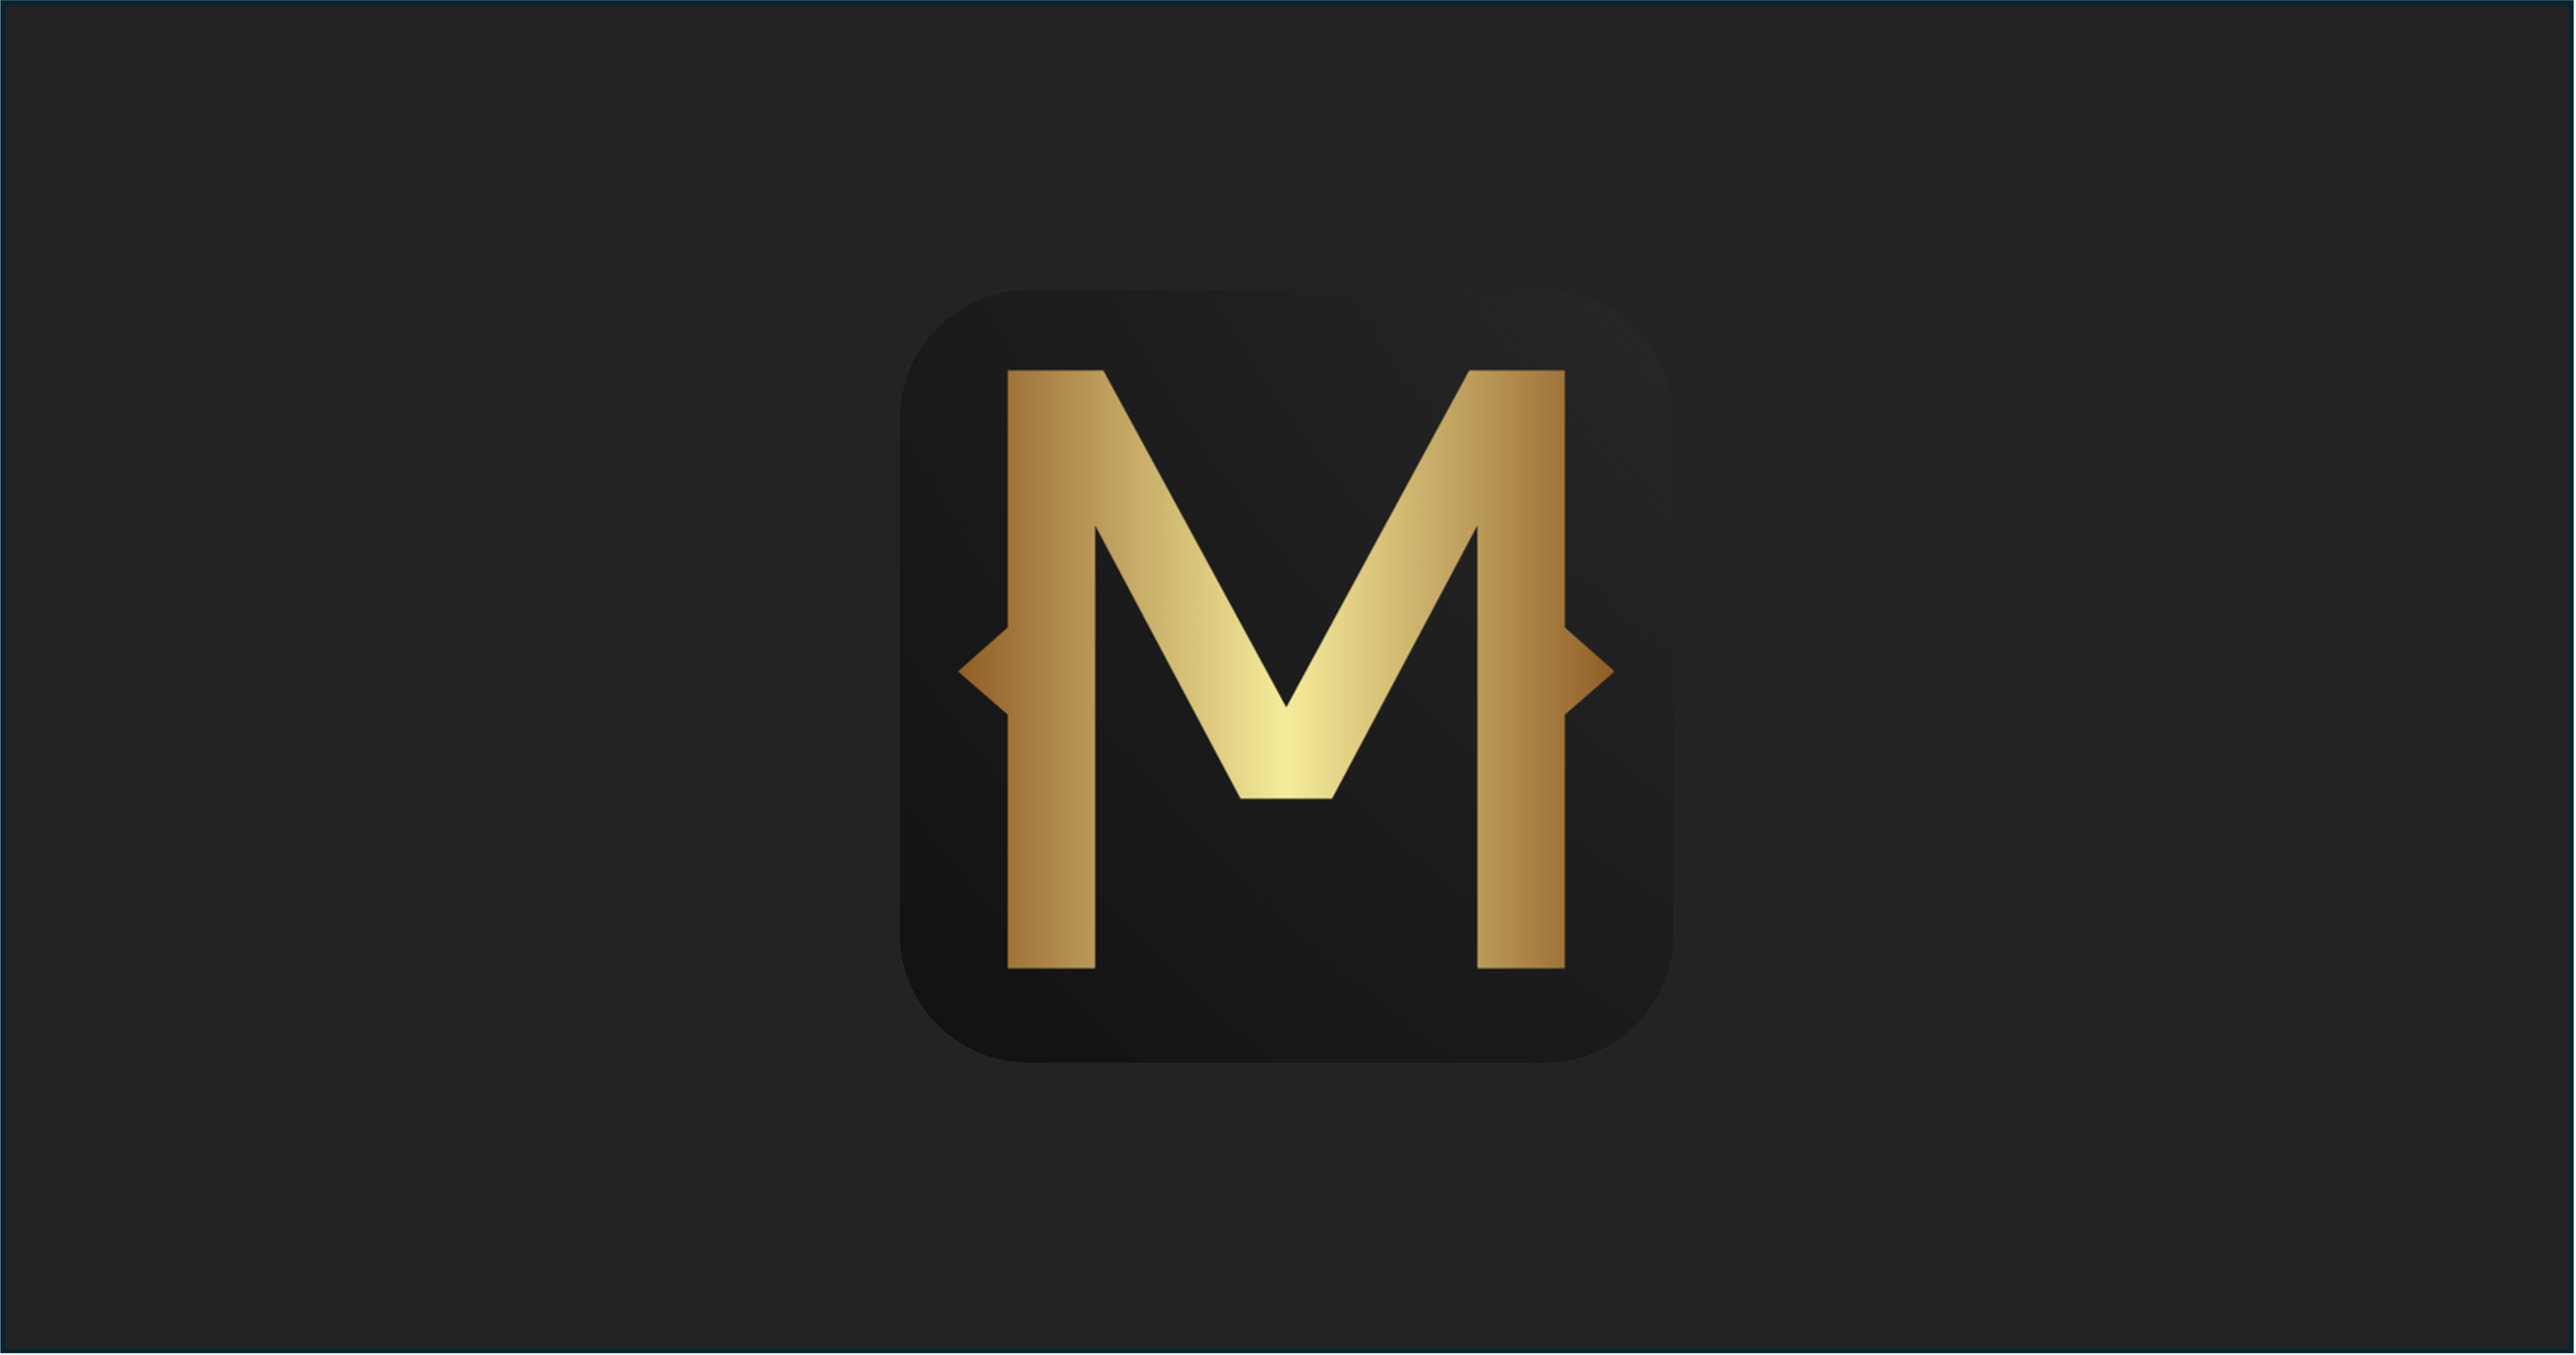
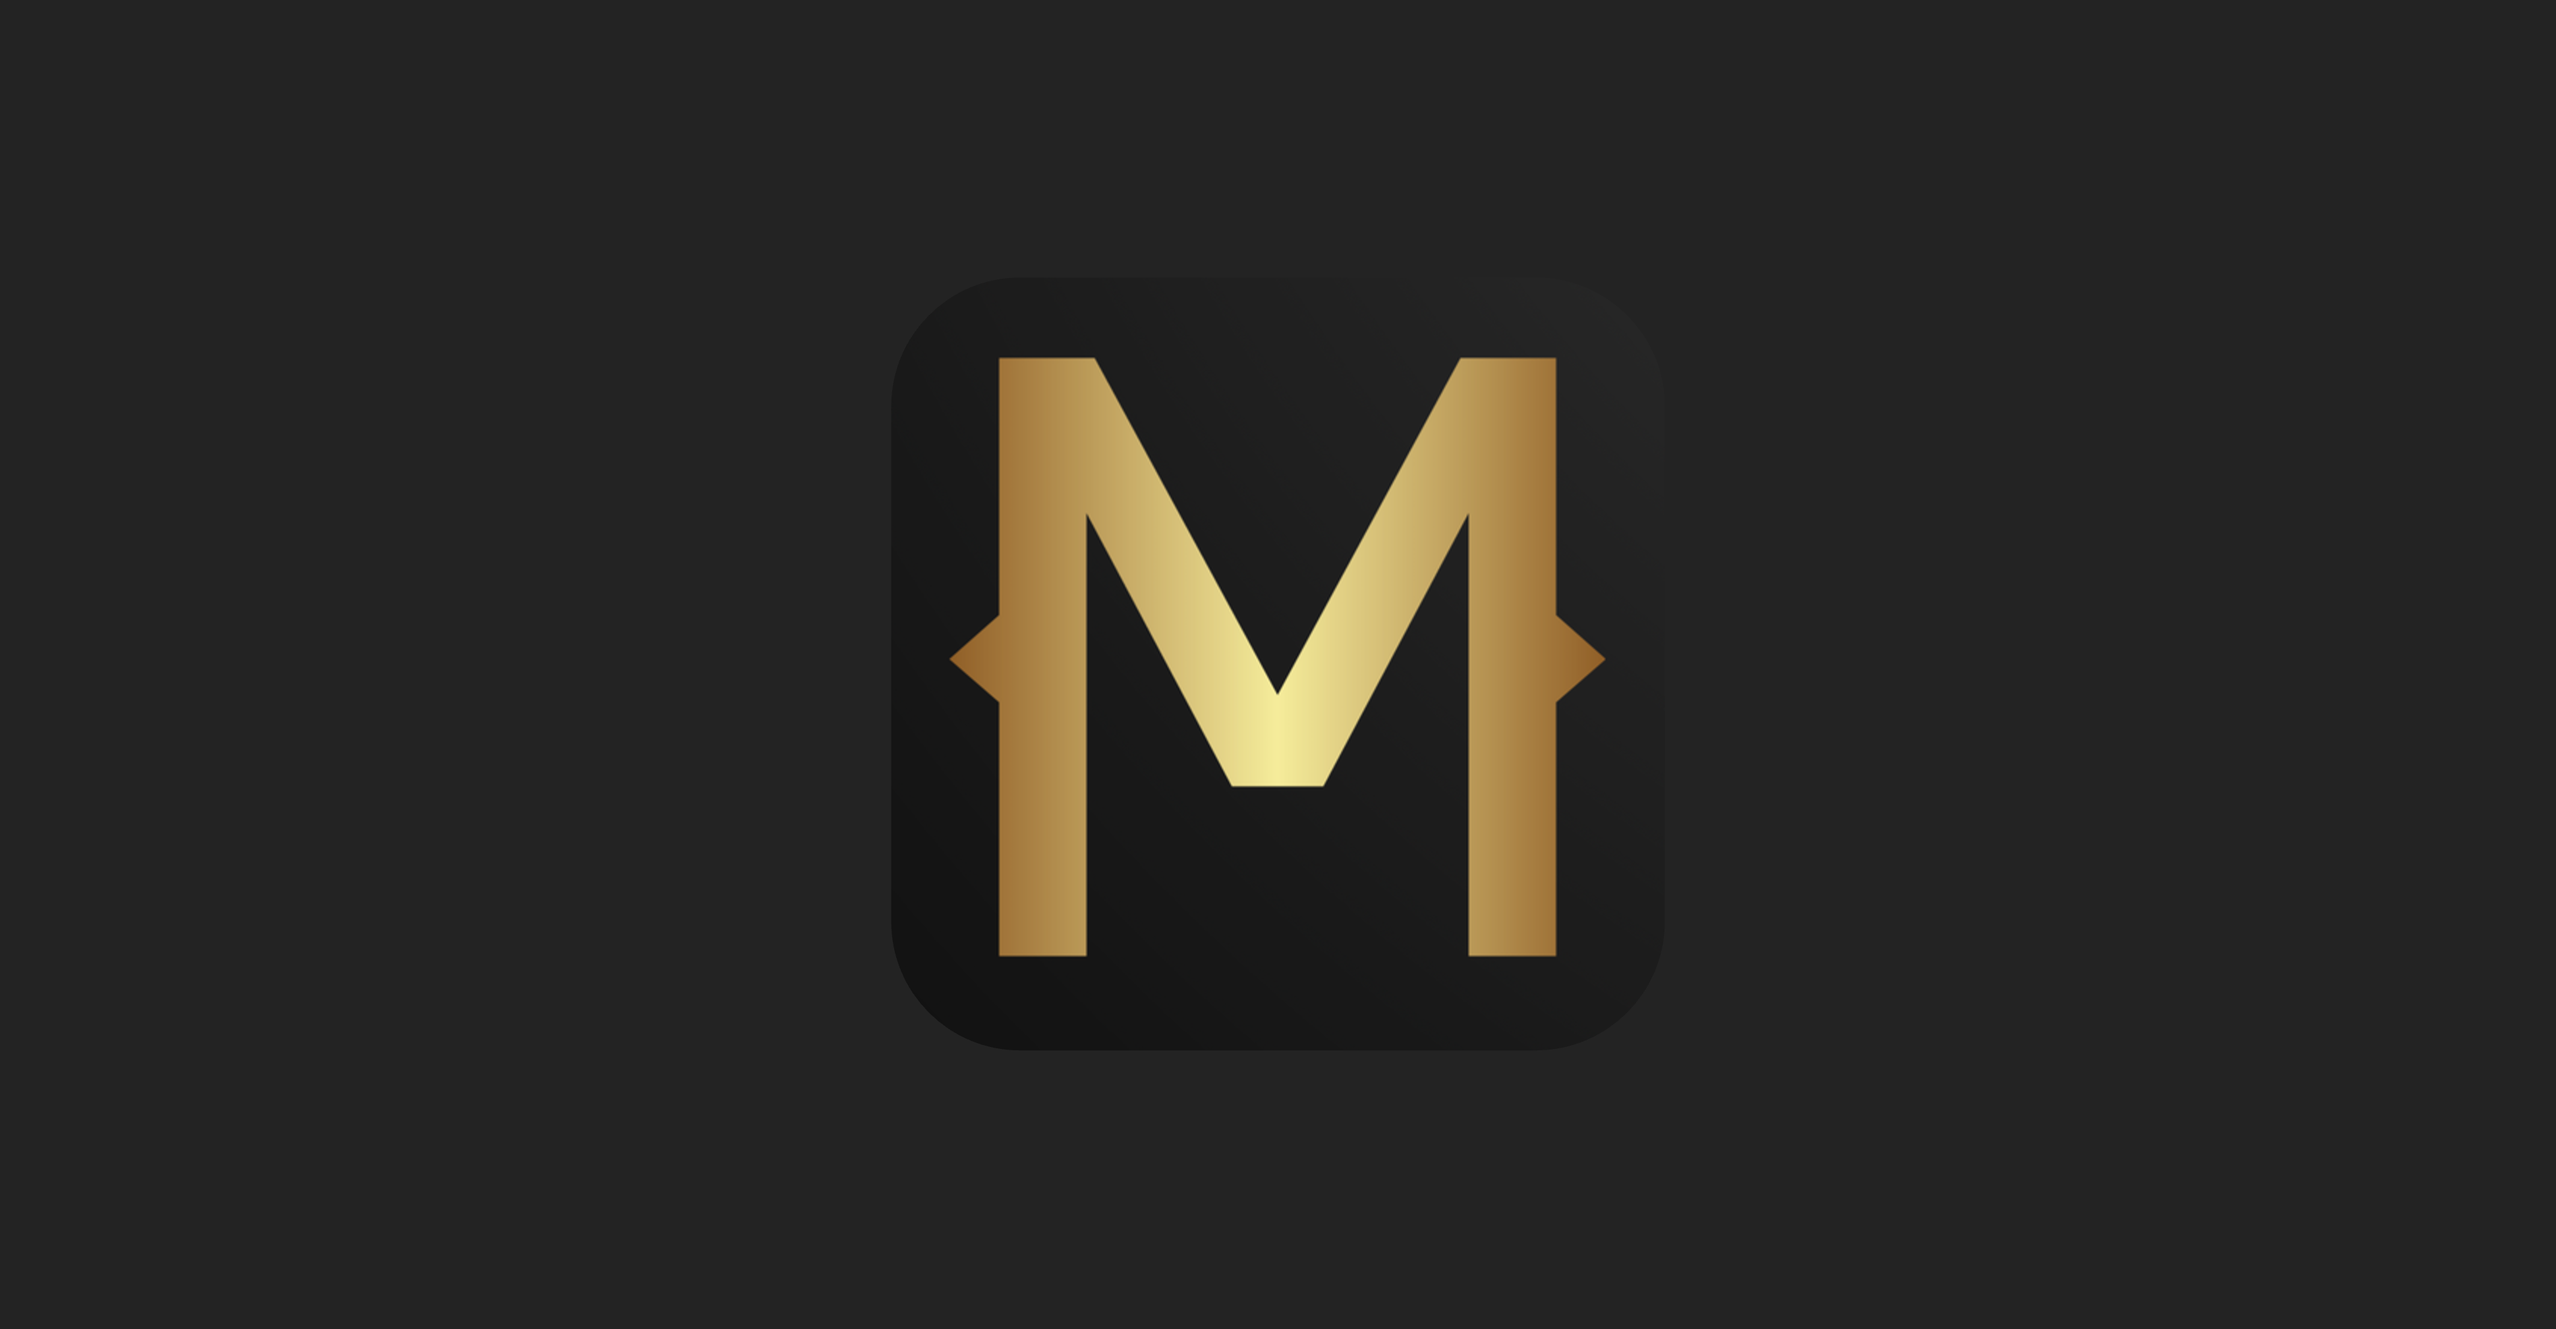
Modified preview.png to remove weird border effect

diff --git a/README.md b/README.md
@@ -22,6 +22,7 @@
 - Implement smooth card going from deck to player's hand animation for picking up any cards at the start of their turn / pass go
 - Check responsiveness of all components, overlays, pages, and animations
 - Add an animation when loading the game page after clicking "Start Game"
+- Improve link sharing og:image preview
 
 #### Bug Fixes:
 
@@ -31,6 +32,8 @@
 - Some rooms may have players in them even though websockets have been closed - REASON UNKNOWN
 - User may be logged in but not authenticated and thus, unable to create a game - REASON: JWT token expiration
 - Let's say we make 5 blue property cards, then the 3rd set is not being shown in the properties area
+- Using hard-coded public URL for og:image preview; make %PUBLIC_URL% work
+- Double sign up potentially causes the server to crash; fix that
 
 ## Deviations from official Monopoly Deal rules:
 
